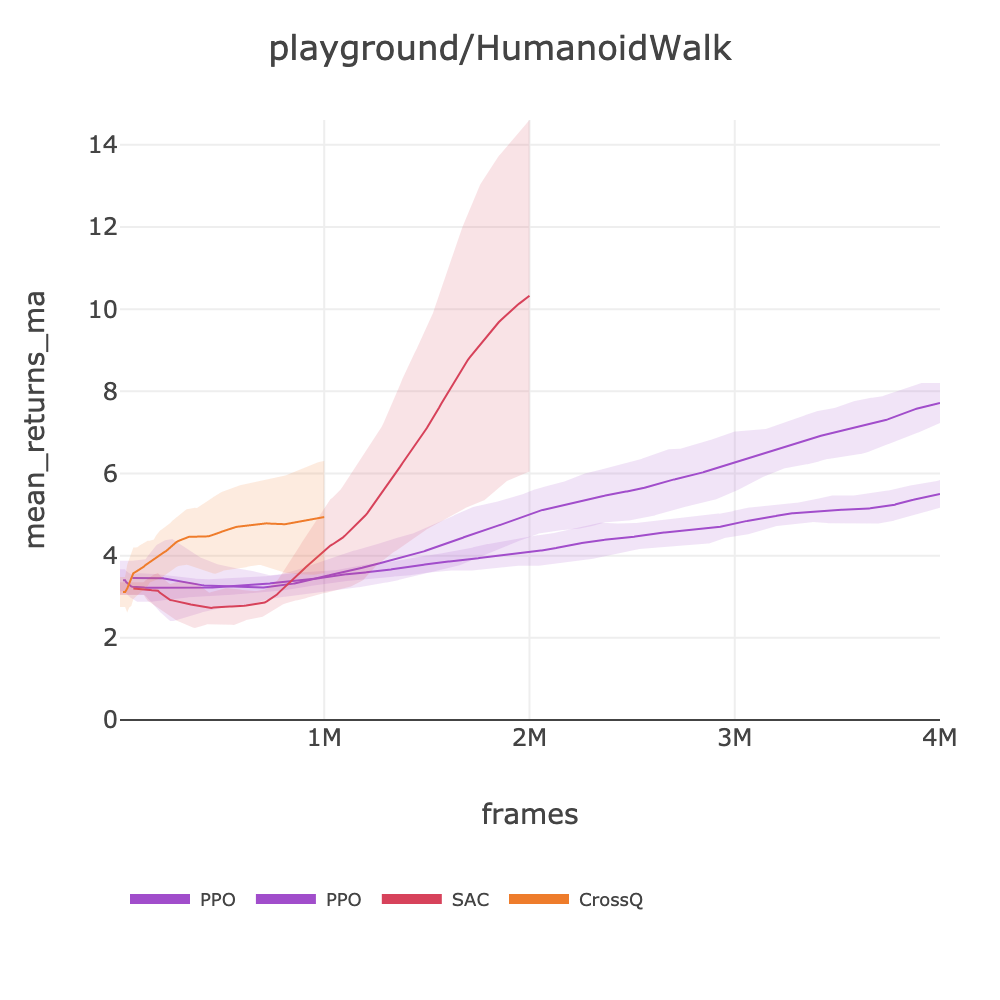
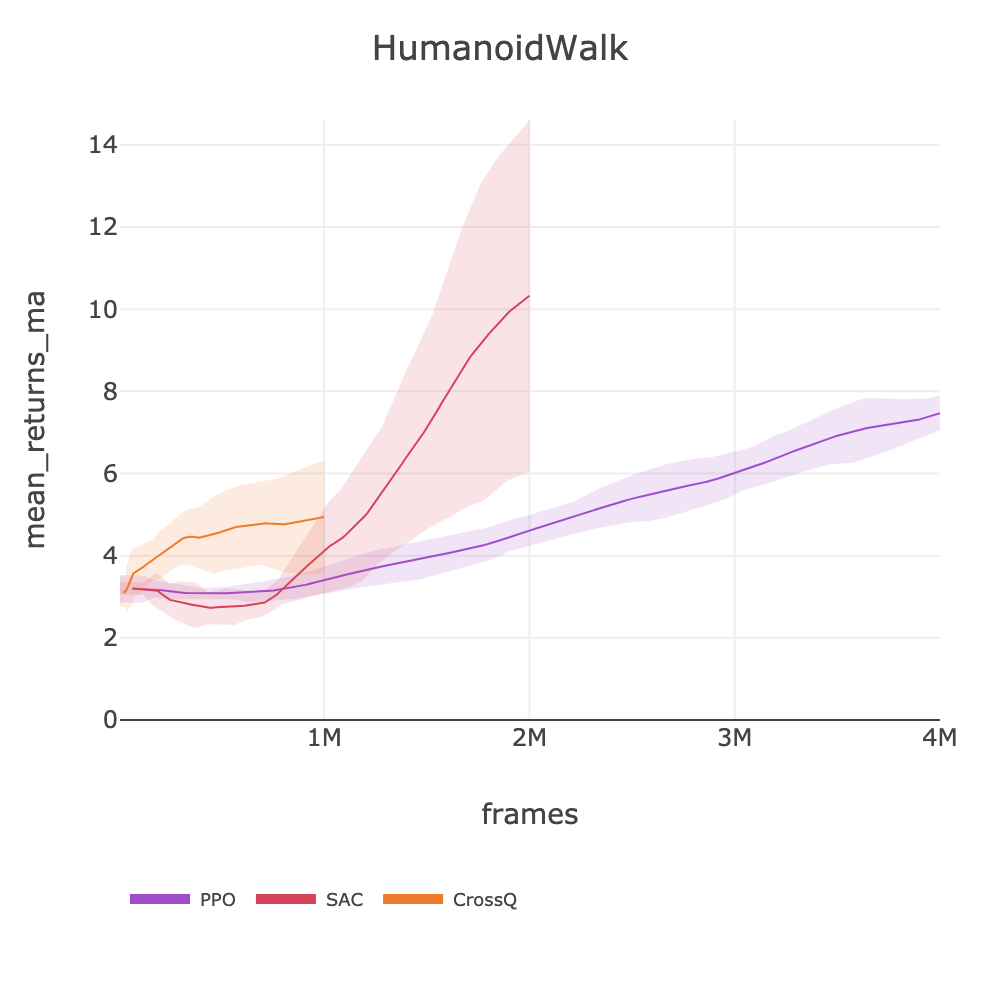
feat: intake PPO HumanoidWalk=7.47

diff --git a/docs/BENCHMARKS.md b/docs/BENCHMARKS.md
@@ -874,8 +874,7 @@ source .env && uv run slm-lab run-remote --gpu --playground \
 | | PPO | ❌ | 16.07 | ppo_playground_arc | [ppo_playground_arc_loco_humanoidstand_2026_03_07_222019](https://huggingface.co/datasets/SLM-Lab/benchmark-dev/tree/main/data/ppo_playground_arc_loco_humanoidstand_2026_03_07_222019) | | ~290 | 4M | ~3.8h |
 | | CrossQ | ❌ | 13.05 | crossq_playground_arc_vhard | [crossq_playground_arc_vhard_humanoidstand_2026_03_10_095248](https://huggingface.co/datasets/SLM-Lab/benchmark-dev/tree/main/data/crossq_playground_arc_vhard_humanoidstand_2026_03_10_095248) | | ~183 | 3M | ~4.6h |
 | | SAC | ❌ | 26.44 | sac_playground_arc_fast | [sac_playground_arc_fast_humanoidstand_2026_03_07_000958](https://huggingface.co/datasets/SLM-Lab/benchmark-dev/tree/main/data/sac_playground_arc_fast_humanoidstand_2026_03_07_000958) | | ~329 | 2M | ~1.7h |
-| playground/HumanoidWalk | PPO | ❌ | 5.50 | ppo_playground_arc | [ppo_playground_arc_humanoidwalk_2026_03_07_133505](https://huggingface.co/datasets/SLM-Lab/benchmark-dev/tree/main/data/ppo_playground_arc_humanoidwalk_2026_03_07_133505) | ~281 | ~300 | 4M | ~3.7h |
-| | PPO | ❌ | 7.71 | ppo_playground_arc | [ppo_playground_arc_loco_humanoidwalk_2026_03_07_224025](https://huggingface.co/datasets/SLM-Lab/benchmark-dev/tree/main/data/ppo_playground_arc_loco_humanoidwalk_2026_03_07_224025) | | ~295 | 4M | ~3.8h |
+| playground/HumanoidWalk | PPO | ❌ | 7.47 | ppo_playground_arc | [ppo_playground_arc_humanoidwalk_2026_03_10_105303](https://huggingface.co/datasets/SLM-Lab/benchmark-dev/tree/main/data/ppo_playground_arc_humanoidwalk_2026_03_10_105303) | | ~294 | 4M | ~3.8h |
 | | CrossQ | ❌ | 4.94 | crossq_playground_arc_vhard | [crossq_playground_arc_vhard_humanoidwalk_2026_03_07_210417](https://huggingface.co/datasets/SLM-Lab/benchmark-dev/tree/main/data/crossq_playground_arc_vhard_humanoidwalk_2026_03_07_210417) | | ~189 | 1M | ~1.5h |
 | | SAC | ❌ | 10.33 | sac_playground_arc_fast | [sac_playground_arc_fast_humanoidwalk_2026_03_06_221222](https://huggingface.co/datasets/SLM-Lab/benchmark-dev/tree/main/data/sac_playground_arc_fast_humanoidwalk_2026_03_06_221222) | | ~329 | 2M | ~1.7h |
 | playground/PendulumSwingup | PPO | ❌ | 342.23 | ppo_playground_arc | [ppo_playground_arc_pendulumswingup_2026_03_07_082244](https://huggingface.co/datasets/SLM-Lab/benchmark-dev/tree/main/data/ppo_playground_arc_pendulumswingup_2026_03_07_082244) | ~959 | ~300 | 4M | ~3.7h |
